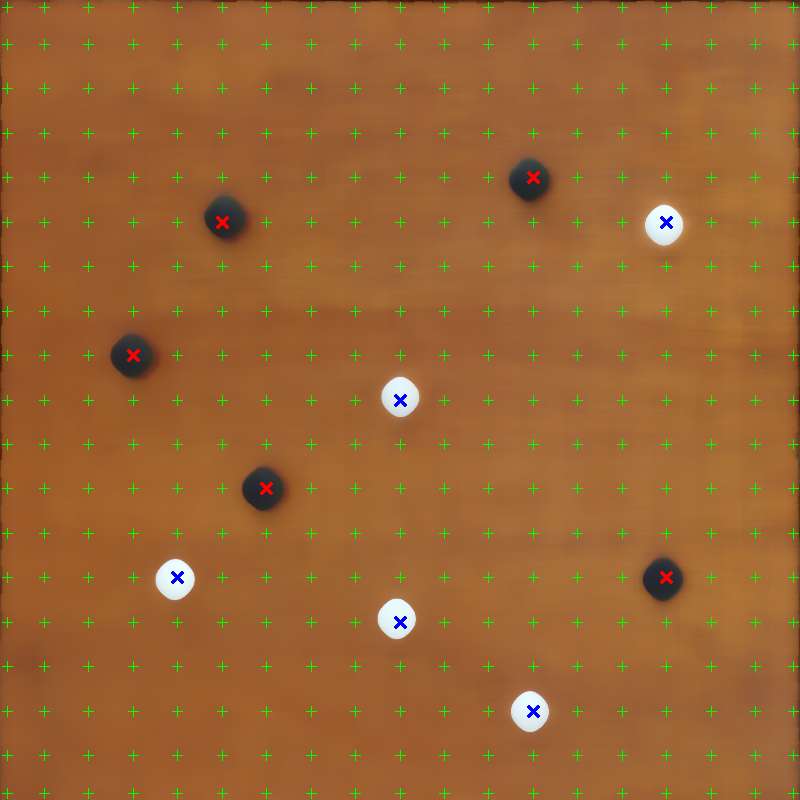
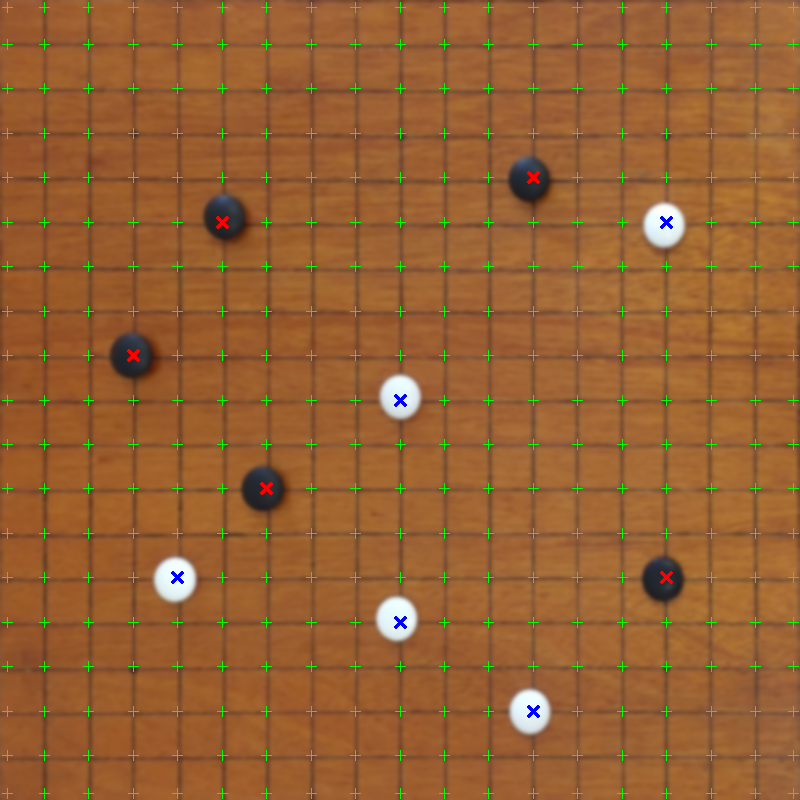
フィルタを変更

diff --git a/PyTest_v2.py b/PyTest_v2.py
@@ -12,13 +12,15 @@ else : os.system("clear")
 #           --- 処理開始 ---
 
 # ファイル指定と、指定ファイルの表示
-originalImg = cv2.imread("./Input_IMG/DSC_0041.jpg")
+# originalImg = cv2.imread("./Input_IMG/DSC_0041.jpg")
+originalImg = cv2.imread("./Input_IMG/DSC_0170.jpg")
 cv2.namedWindow("originalImg", cv2.WINDOW_NORMAL)   # 画像がデカすぎるので縮小表示用
 cv2.imshow("originalImg",originalImg)
 cv2.waitKey(0)
 
 # 座標指定：[左上],[右上],[右下],[左下]
-pts = np.array([[1126,250],[2735,105],[2745,1818],[1103,1711]], np.int32)
+pts = np.array([[]], np.int32)
+# pts = np.array([[1126,250],[2735,105],[2745,1818],[1103,1711]], np.int32)
 cornerOfGoBoard = np.float32(pts) # float32に型変換。透視変換行列の計算で必要になる。
 cornerOfImage = np.float32([[0,0], [800,0], [800,800], [0, 800]])
 
@@ -45,7 +47,7 @@ cv2.imwrite('./Results/boardWithPointsImg.png', boardWithPointsImg)
 
 # ノイズ処理
 # noiseReducedImg = MOD.reduceNoise(boardImg, 37, 0)
-noiseReducedImg = cv2.medianBlur(boardImg,27)
+noiseReducedImg = cv2.GaussianBlur(boardImg,(11,11),0)
 cv2.imshow("noiseReducedImg",noiseReducedImg)
 cv2.waitKey(0)
 cv2.imwrite('./Results/noiseReducedImg.png', noiseReducedImg)

diff --git a/Module.py b/Module.py
@@ -24,7 +24,7 @@ def drawCorner(img,pts):
 # ノイズ処理を行う
 def reduceNoise(img, medianBoxSize, kernelSize):
     # cv2.medianBlur()：メディアンフィルタ
-    cv2.medianBlur(img, medianBoxSize)
+    cv2.blur(img, medianBoxSize)
     # np.ones(サイズ，データ型)：全要素が1の行列を生成。この場合kernelSize*kernelSizeの、全要素が1の行列が用意される。
     # kernel = np.ones((kernelSize, kernelSize), np.uint8)    #np.uint8：NumPyのデータ型のひとつ、符号なし8bit
     # cv2.morphologyEx(画像，処理，構造要素)：“モルフォロジー”（画像上の図形に対して作用するシンプルな処理）関数
